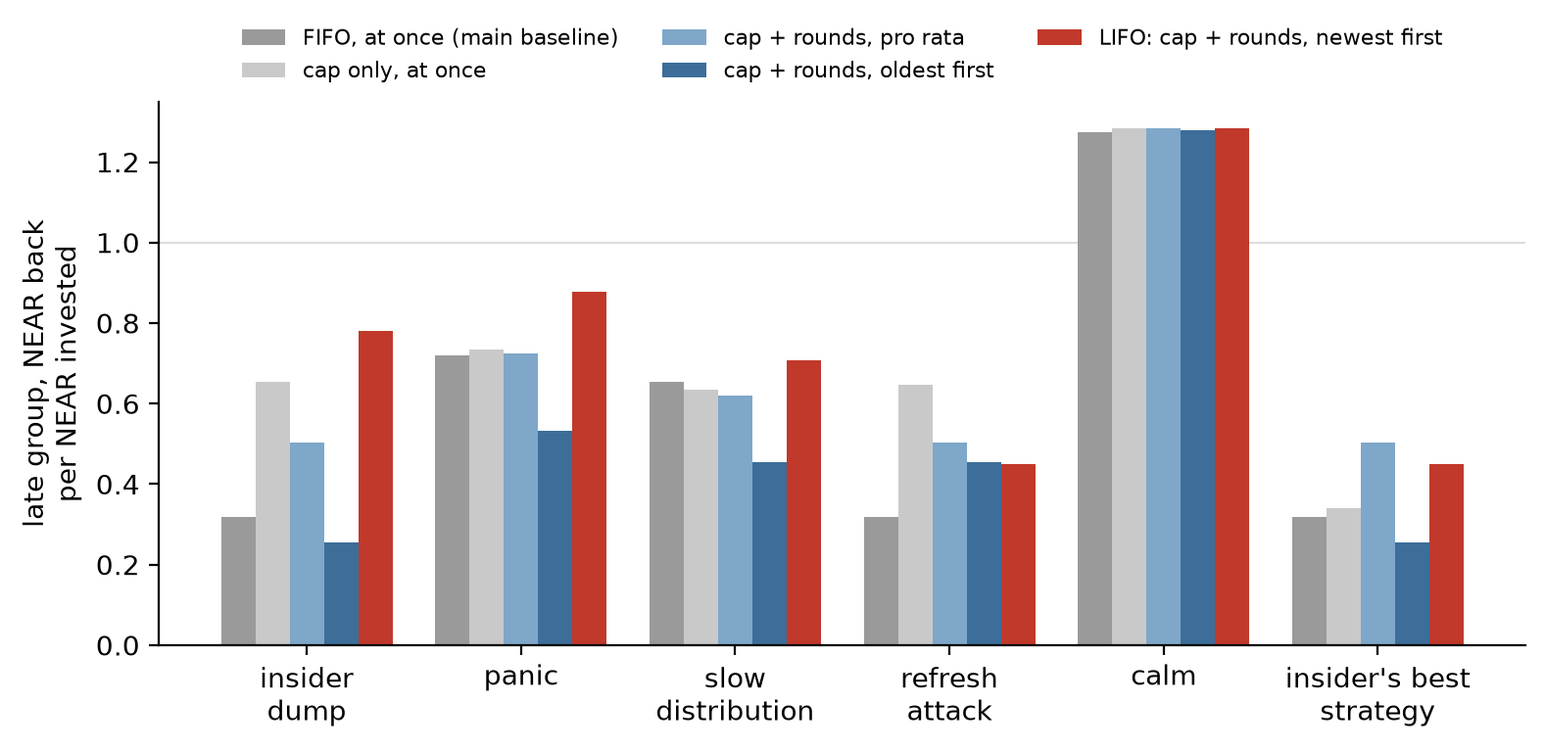
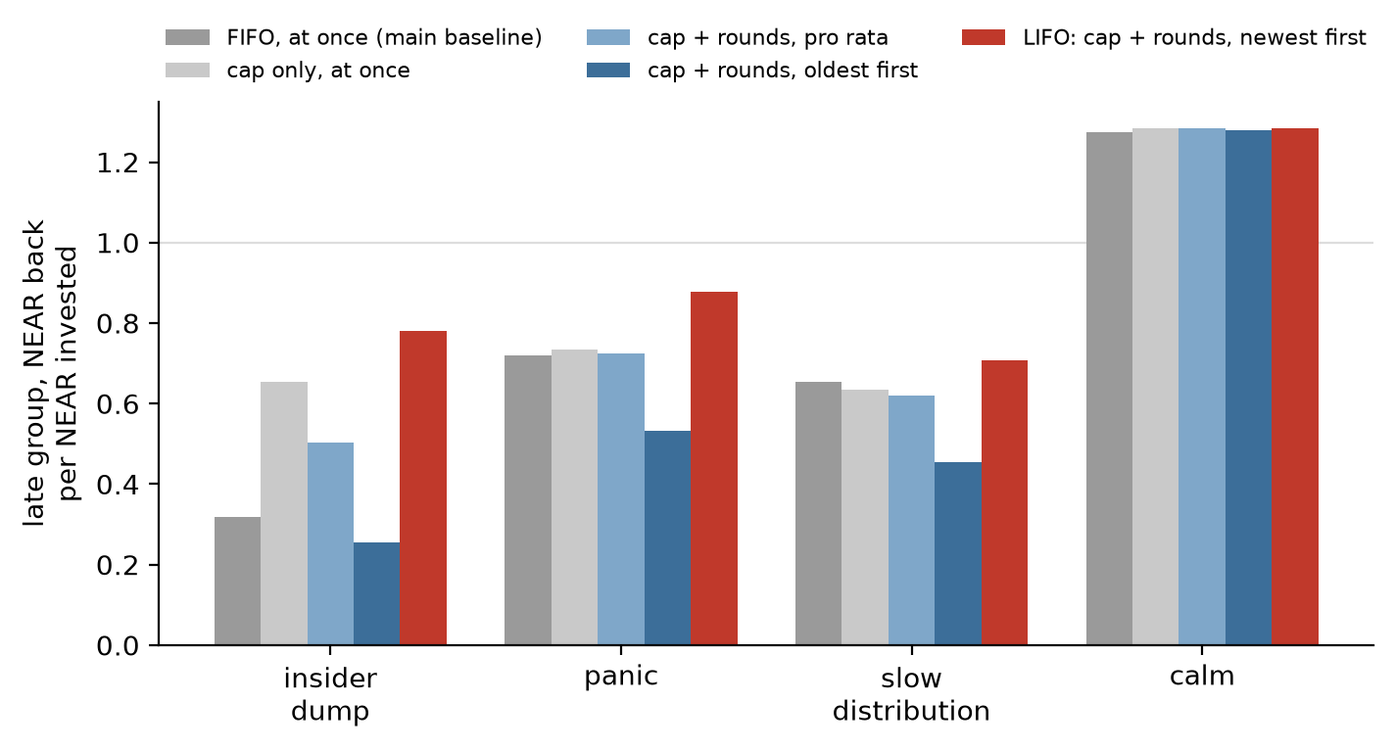
README and RULES: controls, a strategic insider

diff --git a/README.md b/README.md
@@ -18,9 +18,9 @@
 |---|---|---|---|
 | [lifo-amt.pages.dev](https://lifo-amt.pages.dev) | Memecoins With Mechanics (`memecoins`) | An NEP-141 token whose sell rule is in a contract with no access keys, on testnet | Insider dump, 10 seeds: the late group gets 0.781 NEAR back per NEAR under LIFO, 0.503 under the same gate and rounds paid pro rata, 0.317 under a FIFO baseline that sells at once |
 
-[For judges](#for-judges) · [See it work](#see-it-work) · [The problem](#the-problem) · [How it works](#how-it-works) · [Results](#results) · [Controls](#controls-what-the-order-adds) · [The refresh attack](#the-refresh-attack) · [What NEAR does here](#what-near-does-here) · [Review findings](#review-findings) · [Evidence](#evidence) · [Claims](#claims-and-the-tests-that-pin-them) · [Run it](#run-it)
+[For judges](#for-judges) · [See it work](#see-it-work) · [The problem](#the-problem) · [How it works](#how-it-works) · [Results](#results) · [Controls](#controls-what-the-order-adds) · [A strategic insider](#a-strategic-insider) · [What NEAR does here](#what-near-does-here) · [Review findings](#review-findings) · [Evidence](#evidence) · [Claims](#claims-and-the-tests-that-pin-them) · [Run it](#run-it)
 
-I built LIFO solo. I hold an MSc in Finance from Grenoble École de Management and work as an auditor in the technology practice of a large European banking group, where my missions cover payment systems and governance. A cap on what can leave a pool per period is a tool finance already uses against runs: some EU money market funds may limit redemptions to 10 % of the fund per working day (Regulation (EU) 2017/1131, Article 34). LIFO puts such a cap on a memecoin's reserve and adds an order of payment. An audit report states a control together with the case it does not cover, so the refresh attack and the controlled comparison below come with their numbers.
+I built LIFO solo. I hold an MSc in Finance from Grenoble École de Management and work as an auditor in the technology practice of a large European banking group, where my missions cover payment systems and governance. A cap on what can leave a pool per period is a tool finance already uses against runs: some EU money market funds may limit redemptions to 10 % of the fund per working day (Regulation (EU) 2017/1131, Article 34). LIFO puts such a cap on a memecoin's reserve and adds an order of payment. As in an audit, every figure below comes with the command that produced it.
 
 The repository's history starts on 7 November 2026 (`git log --reverse`), and everything in it was written for this hackathon.
 
@@ -32,7 +32,7 @@ Links go to the code at the release tag `v1.1.0`.
 |---|---|
 | Technical implementation | The sell rule is in the contract, not in a server. Settlement: [`settle_finished`](https://github.com/Marc-Dvci/lifo/blob/v1.1.0/contract/src/lib.rs#L816-L875) (the gate, newest vintage first) and [`claim_settled`](https://github.com/Marc-Dvci/lifo/blob/v1.1.0/contract/src/lib.rs#L877-L951). 256-bit curve and gate arithmetic: [`gate_fill`](https://github.com/Marc-Dvci/lifo/blob/v1.1.0/contract/src/math.rs#L50-L57). The contract replays the Python model's vectors: [`vectors.rs`](https://github.com/Marc-Dvci/lifo/blob/v1.1.0/contract/tests/vectors.rs#L308-L362), 210 cases and 3,685 steps. Every rule is a numbered requirement ([`docs/REQUIREMENTS.md`](docs/REQUIREMENTS.md)) and the contract tests are named after them. Gas per settlement: 1.86 to 3.41 Tgas ([Evidence](#evidence)). |
 | Design | A page that shows the mechanic as a stack of plates, one per purchase period, with the round clock and the gate: [`web/index.html`](https://github.com/Marc-Dvci/lifo/blob/v1.1.0/web/index.html), [`web/app.js`](https://github.com/Marc-Dvci/lifo/blob/v1.1.0/web/app.js). Every action on it is a real testnet transaction ([See it work](#see-it-work)). |
-| Impact | Who is left holding the bag in a crash ([The problem](#the-problem)), measured on the same agents and seeds under LIFO and FIFO ([Results](#results)) and against control rules that keep the gate and the rounds and change only the order ([Controls](#controls-what-the-order-adds)), with the attack that LIFO does not stop stated with its numbers ([The refresh attack](#the-refresh-attack)). |
+| Impact | Who is left holding the bag in a crash ([The problem](#the-problem)), measured on the same agents and seeds under LIFO and FIFO ([Results](#results)) and against control rules that keep the gate and the rounds and change only the order ([Controls](#controls-what-the-order-adds)), and against an insider who plans its exit ([A strategic insider](#a-strategic-insider)). |
 | Originality | Exits are ordered by the vintage of the tokens, the date they were bought from the market. No memecoin found that orders exits by purchase vintage ([Prior art](#prior-art)). Token lots keep their vintage through transfers, and a refund after `ft_transfer_call` cannot make a token newer: [`refund`](https://github.com/Marc-Dvci/lifo/blob/v1.1.0/contract/src/lib.rs#L990-L1034), [its tests](https://github.com/Marc-Dvci/lifo/blob/v1.1.0/contract/tests/requirements.rs#L371-L460). |
 | Sustainability | No owner, no admin method, no upgrade method, no way to change a parameter ([`new`](https://github.com/Marc-Dvci/lifo/blob/v1.1.0/contract/src/lib.rs#L374-L394) runs once). Both testnet contracts have 0 access keys, checked every 6 hours by [`live.yml`](https://github.com/Marc-Dvci/lifo/blob/v1.1.0/.github/workflows/live.yml). A settlement costs the same for 1 or 48 sellers, and any account can call it. |
 
@@ -42,7 +42,7 @@ Against the example prompt of the track:
 |---|---|
 | An NEP-141 token with the mechanic in the contract | Yes. The gate and the vintage order are in `contract/src/lib.rs`; the Worker behind the page only signs for demo accounts and calls `settle` on a timer. |
 | All parameters set at launch, readable, no admin key | `new` sets them once; `get_params` returns them; the testnet contracts have 0 access keys. |
-| Sybil resistance with its limits written plainly | LIFO does not try to identify people. Splitting across accounts changes payouts by rounding only, but opening a second account to buy a better place in the line works for a planned insider: [The refresh attack](#the-refresh-attack). |
+| Sybil resistance with its limits written plainly | LIFO works without identities: splitting tokens across accounts changes payouts by rounding only (B6, tested in the contract and in the model). An insider who buys back through a second account is simulated with its numbers in [A strategic insider](#a-strategic-insider). |
 | A page with the current state and a log | [lifo-amt.pages.dev](https://lifo-amt.pages.dev): plates, round clock, gate, pool, settled rounds and latest actions, each with a link to its transaction. |
 | Simulate first | 60-day simulations of five scenarios, 10 seeds, LIFO against FIFO ([Results](#results)) and against three control rules with the same gate ([Controls](#controls-what-the-order-adds)). |
 
@@ -105,23 +105,22 @@ Command: `python -m lifo.sweep --seeds 10 --workers 4`, seeds 1 to 10, launch pa
 | Panic after a shock | 0.877 | 0.721 | 7 of 10 |
 | Calm growth | 1.284 | 1.275 | 5 of 10 |
 | Slow distribution by early holders | 0.709 | 0.653 | 10 of 10 |
-| Refresh attack (below) | 0.449 | 0.319 | 10 of 10 |
+| Insider who refreshes its tokens ([below](#a-strategic-insider)) | 0.449 | 0.319 | 10 of 10 |
 
 ![Price, reserve and supply around the insider dump, FIFO and LIFO, seed 1](results/figures/insider_dump_paths.png)
 
 *Insider dump, seed 1, days 17 to 23, launch parameters, simulated. Under FIFO the price falls in one round; under LIFO the gate spreads the fall over hours and the late group is paid first.*
 
-What it costs and where it does not help:
+Around the crash:
 
 - In the 48 hours after the insider dump's peak, the newest third of vintages got 74 % of the NEAR paid out under LIFO and 32 % under FIFO. The largest one-hour price drop was 34 % under LIFO and 92 % under FIFO.
-- Early holders wait. In the insider dump the oldest holders waited 16.0 hours on average for their last fill, and early buyers got 1.271 NEAR back per NEAR against 1.374 under FIFO. In the panic, 1.306 against 1.661.
-- Calm growth is not better: the late group's mean is 0.009 higher, LIFO is better on 5 of 10 seeds, and the worst seed lost 0.034.
-- The panic is not always better: on 3 of 10 seeds the late group did worse under LIFO (worst: 0.073 less).
-- The sweep covers 144 parameter sets (9,000 runs). 99 of them pass the gate set before the sweep: more NEAR back for the late group under LIFO in both the insider dump and the panic, and calm growth losing at most 0.01 ([`results/SWEEP.md`](results/SWEEP.md)). Queue-fear sensitivity: [`results/SENSITIVITY.md`](results/SENSITIVITY.md).
+- Early holders are paid after the newest buyers and still come out ahead: 1.271 NEAR back per NEAR in the insider dump (1.374 under FIFO), with the oldest holders' last fill 16.0 hours after they asked, on average; 1.306 in the panic (1.661 under FIFO).
+- In calm growth LIFO matches FIFO: 1.284 against 1.275 for the late group.
+- The sweep covers 144 parameter sets (9,000 runs). 99 of them meet the criterion set before the sweep: more NEAR back for the late group under LIFO in both the insider dump and the panic, with calm growth within 0.01 of FIFO ([`results/SWEEP.md`](results/SWEEP.md)). Queue-fear sensitivity: [`results/SENSITIVITY.md`](results/SENSITIVITY.md).
 
 ## Controls: what the order adds
 
-The FIFO baseline above sells at once with no gate, so it differs from LIFO in three ways: the cap of 5 % of the reserve per round, the rounds (one price per batch) and the order (newest vintage first). Three control rules keep LIFO's curve, fee and queue-fear assumption and add one part at a time. Same agents, seeds 1 to 10, launch parameters. Command `python -m lifo.controls --seeds 10 --workers 4`, code [`lifo/controls.py`](lifo/controls.py), every table in [`results/CONTROLS.md`](results/CONTROLS.md).
+The FIFO baseline above sells at once with no gate, so it differs from LIFO in three ways: the cap of 5 % of the reserve per round, the rounds (one price per batch) and the order (newest vintage first). Three control rules keep LIFO's curve, fee and queue-fear assumption and add one part at a time. Same agents, seeds 1 to 10, launch parameters. Command `python -m lifo.controls --seeds 10 --workers 4`, code [`lifo/controls.py`](lifo/controls.py), every table, with the insider's eight strategies under each rule, in [`results/CONTROLS.md`](results/CONTROLS.md).
 
 Late group's NEAR back per NEAR invested, mean of 10 seeds:
 
@@ -130,45 +129,32 @@ Late group's NEAR back per NEAR invested, mean of 10 seeds:
 | Insider dump at the peak | 0.317 | 0.654 | 0.503 | 0.255 | 0.781 |
 | Panic after a shock | 0.721 | 0.734 | 0.723 | 0.532 | 0.877 |
 | Slow distribution by early holders | 0.653 | 0.634 | 0.619 | 0.453 | 0.709 |
-| Refresh attack | 0.319 | 0.646 | 0.503 | 0.455 | 0.449 |
 | Calm growth | 1.275 | 1.284 | 1.283 | 1.280 | 1.284 |
-| Insider's best of 8 strategies, chosen for each rule | 0.317 | 0.339 | 0.503 | 0.255 | 0.449 |
 
-![The late group's NEAR back per NEAR invested under five rules, in five scenarios and against the insider's best strategy for each rule](results/figures/controls.png)
+![The late group's NEAR back per NEAR invested under five rules: insider dump, panic, slow distribution and calm growth](results/figures/controls.png)
 
-*Mean of 10 seeds, simulated. The last group lets the insider pick, for each rule, the strategy that leaves it with the most NEAR.*
+*Mean of 10 seeds, simulated.*
 
-- **Newest first adds to the same cap and rounds when a crowd sells**: +0.278 NEAR per NEAR in the insider dump, +0.154 in the panic, +0.090 in the slow distribution, on 10 of 10 seeds each.
-- **The rounds stop a race.** With the cap alone, sells are filled in arrival order until the room runs out. The simulation shuffles that order, which favours 120 small late buyers over one insider (0.654 in the dump). When the insider's sells land first in every round, as a faster bot's would, the late group gets 0.339. Inside a round, arrival order changes nothing.
-- **Against a planned insider, the cap and the rounds protect the late group, and newest first costs 0.054.** Under LIFO the insider's best strategy is the refresh, and the late group gets 0.449. Under the same cap and rounds paid pro rata, the refresh is worth no more to the insider than a plain dump (28.09 NEAR against 28.07), and the late group gets 0.503. LIFO is better on 2 of 10 seeds there.
-- **Every rule lets the insider sell.** They differ in how fast the reserve can leave and in who is paid first. With its best strategy, the insider ends with 46.58 NEAR under FIFO, 41.10 under LIFO and 28.09 under the cap and rounds paid pro rata, from the 8 NEAR it put in.
-- **The mirror order pays the insider first**: oldest first gives the late group 0.255 in the dump, below FIFO.
+- **Newest first is what lifts the late group above the same cap and rounds**: +0.278 NEAR per NEAR in the insider dump, +0.154 in the panic, +0.090 in the slow distribution, on 10 of 10 seeds each.
+- **The rounds keep the order fair.** With a cap alone, the first sells in a round take the room: when the insider's sells land first in every round, as a faster bot's would, the late group gets 0.339. In a LIFO round every seller gets the same price, so arrival order changes nothing.
+- **The order decides who is paid.** Oldest first, the mirror of LIFO, pays the insider first and gives the late group 0.255 in the dump. Newest first gives it 0.781.
 
-## The refresh attack
+## A strategic insider
 
-The refresh is an attack LIFO does not close, and a planned insider profits from it.
+An insider who plans its exit can sell old tokens in calm rounds and buy new ones from a second account, so the new tokens carry a new vintage: a refresh. I simulated it with six other insider strategies. 10 seeds, launch parameters, the insider puts in 8 NEAR ([`results/REFRESH.md`](results/REFRESH.md), command `python -m lifo.refresh --seeds 10 --workers 4`; both rules on the same agents in [`results/CONTROLS.md`](results/CONTROLS.md)):
 
-A holder can sell old tokens in calm rounds and buy new ones with the proceeds from a second account. The new tokens carry a new vintage, so they sit near the front of the line. Opening a second account is free.
+| Insider strategy | Insider ends with, LIFO (NEAR) | Insider ends with, FIFO (NEAR) | Late group, LIFO | Late group, FIFO |
+|---|---|---|---|---|
+| Dump everything at the peak | 14.49 | 46.58 | 0.781 | 0.317 |
+| Refresh over the 12 hours before the dump, then dump | 41.10 | 46.36 | 0.449 | 0.319 |
 
-Simulated, 10 seeds, launch parameters, the insider puts in 8 NEAR ([`results/REFRESH.md`](results/REFRESH.md), command `python -m lifo.refresh --seeds 10 --workers 4`):
-
-| Insider strategy | Insider ends with (NEAR) |
-|---|---|
-| Plain dump at the peak, LIFO | 14.49 |
-| Best exit without buying back (48-hour slow exit), LIFO | 25.78 |
-| Refresh over the 12 hours before the dump, then dump, LIFO | 41.10 |
-| The same refresh and dump, FIFO | 46.36 |
-
-- The refresh beats every exit without buying back for the insider on 10 of 10 seeds. It is a profitable attack, not only a nuisance.
-- No fee closes it. I tested a buy fee, a sell fee on young tokens, a minimum age, and vintages from 24 hours to 7 days. None cut the insider's gain by more than about one NEAR at a timing the insider does not control. Longer vintages helped only when the dump fell before a vintage boundary, and the insider chooses the time.
-- The late group still does better than under FIFO in this case: 0.449 NEAR back per NEAR against 0.319, on 10 of 10 seeds. Against an insider who plans the dump, LIFO loses most of its advantage; it does not make the late group worse off than FIFO in this simulation. The same cap and rounds paid pro rata give the late group 0.503 against this insider ([Controls](#controls-what-the-order-adds)).
-- The 24-hour vintage stays because it costs ordinary buyers nothing and cut the refresh gain by about one NEAR.
+- Against a dump at the peak, LIFO takes the insider from 46.58 NEAR to 14.49 and lifts the late group from 0.317 to 0.781 NEAR back per NEAR.
+- Against the refresh, the late group gets 0.449 NEAR back per NEAR under LIFO and 0.319 under FIFO, on 10 of 10 seeds.
+- The launch rules use a 24-hour vintage. It costs ordinary buyers nothing and takes about one NEAR off the refresh. The study also measured a buy fee, a sell fee on young tokens, a minimum age and vintages up to 7 days ([`results/REFRESH.md`](results/REFRESH.md)).
 
 ![The insider's NEAR and the late group's result for seven insider strategies, FIFO and LIFO](results/figures/refresh_decomposition.png)
 
 *Seven insider strategies, mean of 10 seeds, simulated. Dump: sell everything at the peak. Slow: sell in slices over 12 or 48 hours. Refresh: sell in slices and buy back from a second account, then dump.*
-
-Other limits, in [`RULES.md`](RULES.md#attacks-and-limits): early holders are stuck in a crash by design; the queue is visible, and the simulation assumes holders panic sooner after a batch where the gate bound (an assumption about behaviour, not a measurement); anyone can open a pool for the token on another venue, which the rule does not cover; the reserve cannot pass 120 NEAR with these curve values.
 
 ## What NEAR does here
 
@@ -200,7 +186,7 @@ Result in the file, NEAR spent on buys and NEAR paid back by the contract at the
 
 ## Review findings
 
-An independent review of the contract found two defects in its rules. A third was a flaw in the rounding rule of my first specification, which the model replaces. All three are fixed and have tests.
+An independent review of the contract led to two fixes in its rules, and the model replaced the rounding rule of my first specification. All three have tests.
 
 | Finding | Fix | Test |
 |---|---|---|
@@ -208,7 +194,6 @@ An independent review of the contract found two defects in its rules. A third wa
 | Vintages were 32 bits wide. With 1 ns vintages the value wrapped to 0 after 2^32 ns (4.3 s). | Vintages are 64-bit in records, keys, views and events. | [`vintages_above_u32_max_do_not_wrap`](contract/tests/requirements.rs) |
 | The spec said to round the boundary vintage's pro rata shares down per request. Two one-unit requests at a boundary that can fill one unit both round to zero, the curve has bought one unit, and both sellers get their unit back: tokens are created. | The shares use the exact split `floor((s + a) * f / r) - floor(s * f / r)`. They add up exactly to the vintage's fill. | [`c5_the_boundary_vintage_is_shared_pro_rata_and_adds_up_exactly`](contract/tests/requirements.rs) and `test_the_boundary_vintage_is_shared_pro_rata_and_the_shares_add_up_exactly` in the model tests |
 
-The refresh attack above is a limit of the rule, not a defect that was fixed.
 
 ## Evidence
 
@@ -253,7 +238,7 @@ Each row is a claim this README makes, where it is implemented, and a test that 
 | The contract agrees with the Python model on 210 cases and 3,685 steps (M3) | `contract/tests/vectors.rs` | `g3_contract_replays_every_edge_vector`, `g3_contract_replays_every_random_vector` |
 | Both testnet contracts run the reviewed wasm and have 0 access keys | public RPC | `python scripts/live_check.py`, every 6 hours in [`live.yml`](.github/workflows/live.yml) |
 | A visitor gets 8 actions in 10 minutes and the whole demo 120 an hour | `worker/src/limits.js` | `a visitor gets 8 actions in 10 minutes, then a 429 with the wait, and nothing is signed for the refused one` (`worker/test/ops.test.js`) |
-| A rate-limited RPC endpoint does not stop the page | `createRpc` in `worker/src/chain.js`, `worker/src/memo.js` | `a rate-limited or failing endpoint moves the call to the next one, which is then tried first`; `when the chain cannot be read, the last good state is served with the current time and its age, up to the limit` |
+| The page keeps running when an RPC endpoint is rate-limited | `createRpc` in `worker/src/chain.js`, `worker/src/memo.js` | `a rate-limited or failing endpoint moves the call to the next one, which is then tried first`; `when the chain cannot be read, the last good state is served with the current time and its age, up to the limit` |
 | The page says who is paid in a round where the gate binds | `describeRound` in `web/lib.js` | `a round where the gate binds says who was filled, who was partly filled and who waits` (`web/test/lib.test.js`) |
 | Every plate label meets the WCAG AA contrast of 4.5:1 | `plateColor` in `web/lib.js` | `every plate label meets the WCAG AA contrast of 4.5 to 1, for stacks of 1 to 12 plates` (`web/test/lib.test.js`); [`e2e/axe.mjs`](e2e/axe.mjs) on the live page |
 | A demo role that cannot pay is told so before anything is signed | `act` in `worker/src/ops.js` | `a buy by a role that cannot pay its deposit and gas is refused before anything is signed, and says why` (`worker/test/ops.test.js`) |
@@ -356,7 +341,7 @@ cd .. && bash e2e/sandbox.sh stop
 
 ## Prior art
 
-Uniform-price launch auctions (Metaplex, Uniswap's continuous clearing auctions, [meme.cooking](https://meme.cooking/)) give every early depositor the same price and lock liquidity against launch sniping and rugs. Tripwire, another entry in this hackathon, makes token accounts keyless. Redemption gates and exit queues exist in stablecoins and staking. Those address the launch or the pool; LIFO addresses who is paid first once holders sell. No memecoin found that orders exits by purchase vintage. The search was a web search on 7 November 2026 and is not exhaustive.
+Uniform-price launch auctions (Metaplex, Uniswap's continuous clearing auctions, [meme.cooking](https://meme.cooking/)) give every early depositor the same price and lock liquidity against launch sniping and rugs. Tripwire, another entry in this hackathon, makes token accounts keyless. Redemption gates and exit queues exist in stablecoins and staking. Those address the launch or the pool; LIFO addresses who is paid first once holders sell. No memecoin found that orders exits by purchase vintage (web search, 7 November 2026).
 
 ## What is real
 
@@ -366,7 +351,7 @@ The contracts, the transactions, the page and the tests are real and run on test
 
 | Path | What |
 |---|---|
-| [`RULES.md`](RULES.md) | The mechanism, every parameter, every rounding rule, the attacks and limits |
+| [`RULES.md`](RULES.md) | The mechanism, every parameter, every rounding rule and the attack studies |
 | [`docs/REQUIREMENTS.md`](docs/REQUIREMENTS.md) | The rules as numbered requirements, with every change and its reason; the tests are named after them |
 | `lifo/` | Python reference model (`model.py`), simulator (`sim.py`), sweep, refresh study, controls, vector generator |
 | `tests/` | Unit and Hypothesis property tests of the model |

diff --git a/RULES.md b/RULES.md
@@ -53,7 +53,7 @@ At the launch parameters, the late group's NEAR back per NEAR invested (mean of 
 | insider dump at the peak | 0.781 | 0.317 | 10 of 10 |
 | panic after a shock | 0.877 | 0.721 | 7 of 10 |
 | slow distribution by early holders | 0.709 | 0.653 | 10 of 10 |
-| refresh attack | 0.449 | 0.319 | 10 of 10 |
+| insider who refreshes its tokens | 0.449 | 0.319 | 10 of 10 |
 
 ![Price, reserve and supply around the insider dump, FIFO and LIFO](results/figures/insider_dump_paths.png)
 
@@ -65,17 +65,17 @@ At the launch parameters, the late group's NEAR back per NEAR invested (mean of 
 
 In the 48 hours after the peak of the insider dump, the newest third of vintages got 74 % of the NEAR paid out under LIFO and 32 % under FIFO. The largest one-hour price drop was 34 % under LIFO and 92 % under FIFO.
 
-## Attacks and limits
+## Attack studies and design choices
 
-- **Buying a better seat by round trip (the refresh). Not closed.** A holder can sell old tokens in calm epochs and buy fresh ones from a second account. Tokens leave newest first, so it takes a second account, which is free. In the simulation the insider put in 8 NEAR and the best honest exit (a 48 hour slow exit) ended with 25.78 NEAR. Refreshing over the 12 hours before the dump and then dumping ended with 41.10 NEAR (FIFO: 46.36), better for the insider than every honest exit on 10 of 10 seeds. It is a profitable attack, not only griefing: the late group got 0.449 NEAR per NEAR against 0.750 to 0.783 when the insider exited honestly. A plain dump is what LIFO punishes (14.49 NEAR for the insider); a planned refresh undoes that. A buy fee, a sell fee on young tokens, a minimum age and vintages from 24 hours to 7 days were tested; none cut the insider's gain by more than about one NEAR at a timing the insider does not control, and the longer vintages only helped when the dump fell before a vintage boundary ([`results/REFRESH.md`](results/REFRESH.md)). The late group still did better than under FIFO in this case (0.449 against 0.319, 10 of 10 seeds). What a planned insider can still do is exit at close to the FIFO price. The 24 hour vintage was kept because it costs genuine buyers nothing and cut the refresh gain by about one NEAR.
-- **Early holders are stuck in a crash.** That is the trade. In the insider dump the oldest holders waited up to 16.0 hours on average (mean over seeds of the longest wait) for their last fill, and early buyers got 1.271 NEAR back per NEAR against 1.374 under FIFO. In the panic, 1.306 against 1.661.
-- **A visible queue.** Anyone can see when the gate binds. The simulation assumes holders panic at 75 % of their usual threshold after a batch where the gate bound. Varying that from 1.0 (no effect) to 0.5 changed the late group's result by under 0.07 NEAR per NEAR ([`results/SENSITIVITY.md`](results/SENSITIVITY.md)); under LIFO, panicking sooner helps the newest sellers, since they are paid first. This is an assumption about behaviour, not a measurement.
-- **Calm growth is not better.** The gate bound in a few epochs even in calm growth. The late group's mean was 0.009 higher under LIFO, but LIFO was better on only 5 of 10 seeds, and the worst seed lost 0.034 NEAR per NEAR.
-- **Panic is not always better.** On 3 of 10 seeds the late group did worse under LIFO in the panic (worst: 0.073 NEAR per NEAR less).
-- **Other venues.** Anyone can open a pool for the token elsewhere, for example on Ref Finance. The rule covers this market's reserve only. Tokens bought elsewhere keep the vintage they were first bought with here, so they do not jump the line.
+- **A strategic insider (the refresh).** A holder can sell old tokens in calm epochs and buy fresh ones from a second account, so the new tokens carry a new vintage. The insider put in 8 NEAR. A plain dump ends with 14.49 NEAR under LIFO and 46.58 under FIFO. Refreshing over the 12 hours before the dump and then dumping ends with 41.10 NEAR (FIFO: 46.36), and the late group gets 0.449 NEAR back per NEAR against 0.319 under FIFO, on 10 of 10 seeds. The 24 hour vintage costs ordinary buyers nothing and takes about one NEAR off the refresh. A buy fee, a sell fee on young tokens, a minimum age and vintages up to 7 days were also measured ([`results/REFRESH.md`](results/REFRESH.md)).
+- **Early holders are paid after the newest buyers.** That is the design, and they still come out ahead: 1.271 NEAR back per NEAR in the insider dump (1.374 under FIFO), with the oldest holders' last fill 16.0 hours after they asked (mean over seeds of the longest wait); 1.306 in the panic (1.661 under FIFO).
+- **A visible queue.** Anyone can see when the gate binds. The simulation has holders panic at 75 % of their usual threshold after a batch where the gate bound; varying that from 1.0 (no effect) to 0.5 moves the late group's result by under 0.07 NEAR per NEAR ([`results/SENSITIVITY.md`](results/SENSITIVITY.md)). Under LIFO, panicking sooner helps the newest sellers, since they are paid first.
+- **Calm growth.** LIFO matches FIFO: the late group's mean is 1.284 against 1.275.
+- **Panic.** LIFO is ahead for the late group on 7 of 10 seeds, 0.877 against 0.721 on average.
+- **Other venues.** Anyone can open a pool for the token elsewhere, for example on Ref Finance. Tokens bought there keep the vintage they were first bought with here, so buying elsewhere never moves a token up the line.
 - **Splitting across accounts** changes payouts only by rounding (at most one token unit and one unit of value per account), tested on 2,000 random cases. An account with more than 16 vintages has its oldest lots merged into older ones; splitting avoids that merge but never gives a token a newer vintage than its purchase.
-- **A small market.** With these curve values the reserve cannot pass 120 NEAR. The simulated buyers' sizes were chosen so that the reserve peaks under that cap (about 50 to 95 NEAR).
-- **What the simulation is.** Agent behaviour (arrival rates, sizes, thresholds) is drawn from distributions chosen for this model.
+- **Market size.** With these curve values the reserve tops out at 120 NEAR. The simulated buyers' sizes keep the reserve's peak between about 50 and 95 NEAR.
+- **How the simulation draws its agents.** Arrival rates, sizes and thresholds come from distributions chosen for this model.
 
 ## What the contract makes concrete
 

diff --git a/docs/REQUIREMENTS.md b/docs/REQUIREMENTS.md
@@ -102,11 +102,13 @@ S4. Measured for each run: the late wave's average realised result per NEAR inve
 
 S5'. THE system SHALL launch with `GATE_BPS` 500, `EPOCH_LENGTH` 10 minutes, `VINTAGE_LENGTH` **24 hours**, `SELL_FEE_BPS` 50, `MAX_LOTS` 16, `VIRTUAL_NEAR` 30 NEAR, `VIRTUAL_TOKENS` 1,073,000,000 tokens with 18 decimals and `MAX_SUPPLY` 80 % of `VIRTUAL_TOKENS`.
 
-> Replaces S5, which swept `GATE_BPS` 200, 500, 1000, 2000; `EPOCH_LENGTH` 5, 10, 30 minutes; `VINTAGE_LENGTH` 1 hour, 6 hours, 1 day; `SELL_FEE_BPS` 50, 100, 200, 300 ([`results/SWEEP.md`](../results/SWEEP.md)), where a 1-hour vintage ranked first. A 24-hour vintage costs a genuine buyer nothing (the round trip is 0.50 % at every holding time). It cut the refresh gain from +16.72 to +15.32 NEAR at the peak of the base scenario, and from +17.31 to +16.38 with the dump timed just after a vintage boundary, and one account's 16 lots cover 16 days of purchases ([`results/RECOMMENDED.md`](../results/RECOMMENDED.md)).
+> Replaces S5, which swept `GATE_BPS` 200, 500, 1000, 2000; `EPOCH_LENGTH` 5, 10, 30 minutes; `VINTAGE_LENGTH` 1 hour, 6 hours, 1 day; `SELL_FEE_BPS` 50, 100, 200, 300 ([`results/SWEEP.md`](../results/SWEEP.md)), where a 1-hour vintage ranked first. A 24-hour vintage costs an ordinary buyer nothing (the round trip is 0.50 % at every holding time). It cut the refresh gain from +16.72 to +15.32 NEAR at the peak of the base scenario, and from +17.31 to +16.38 with the dump timed just after a vintage boundary, and one account's 16 lots cover 16 days of purchases ([`results/RECOMMENDED.md`](../results/RECOMMENDED.md)).
 
 S6. Results (tables and figures) SHALL be written to `results/` with the command, the seed, the parameters and the commit. Figures: white background, minimal, readable at README width, no title inside the image.
 
-S7. THE documentation SHALL state that the refresh attack is not closed: an insider who plans a dump and refreshes in the last hours before it can exit at close to the FIFO price (41.10 NEAR against 46.36 under FIFO, in the simulation), that the late group still did better than under FIFO in that case (0.449 against 0.319, 10 of 10 seeds), and that the rules tested use only token age and fees, never account identity. The README does, in [The refresh attack](../README.md#the-refresh-attack).
+S7'. THE documentation SHALL report the refresh with its numbers, LIFO beside FIFO on the same agents and seeds: what the insider ends with (41.10 NEAR against 46.36) and what the late group gets back (0.449 against 0.319 NEAR per NEAR, 10 of 10 seeds). The README does, in [A strategic insider](../README.md#a-strategic-insider); [`results/REFRESH.md`](../results/REFRESH.md) holds every strategy and option tested, and [`results/CONTROLS.md`](../results/CONTROLS.md) the same gate and rounds under other payment orders.
+
+> Replaces S7 (9 November 2026), which asked for a README section on the refresh alone; the README now reports it beside the plain dump, LIFO next to FIFO.
 
 ## Gates
 
@@ -115,4 +117,4 @@ S7. THE documentation SHALL state that the refresh attack is not closed: an insi
 | G1 | The sweep shows a parameter set where, in the insider-dump and panic scenarios, the late wave does measurably better under LIFO than under FIFO, without making calm growth worse. | 99 of 144 sets pass ([`results/SWEEP.md`](../results/SWEEP.md)) |
 | G2 | Every property in M2 holds on at least 2,000 Hypothesis examples per property. | `tests/test_properties.py` |
 | G3 | The contract replays every vector exactly, and its unit tests cover every requirement in A, B and C by name. | `g3_contract_replays_every_edge_vector`, `g3_contract_replays_every_random_vector`, and the `a`, `b`, `c` tests in [`contract/tests/requirements.rs`](../contract/tests/requirements.rs) |
-| G4 | A rule is adopted against the refresh only if it cuts the insider's refresh payoff below its best honest exit at both dump timings tested (peak at day 20 and at day 22), without raising the round-trip cost of a genuine buyer holding more than 24 hours and without depending on account identity. | No option tested meets it ([`results/REFRESH.md`](../results/REFRESH.md)); the 24-hour vintage was kept for its cost to genuine buyers, which is zero |
+| G4 | A rule is adopted against the refresh only if it cuts the insider's refresh payoff below its best exit without buying back at both dump timings tested (peak at day 20 and at day 22), without raising the round-trip cost of an ordinary buyer holding more than 24 hours and without depending on account identity. | The 24-hour vintage was adopted: it costs ordinary buyers nothing and takes about one NEAR off the refresh ([`results/REFRESH.md`](../results/REFRESH.md)) |

diff --git a/results/CONTROLS.md b/results/CONTROLS.md
@@ -1,6 +1,6 @@
 # Controls: the same gate, rounds and fee, only the order changed
 
-Simulated. Command: `python -m lifo.controls --seeds 10 --workers 4`. Seeds 1 to 10. Commit `dbd00a6`. Runs: 550, in `results/controls.csv`; runtime 31 s.
+Simulated. Command: `python -m lifo.controls --seeds 10 --workers 4`. Seeds 1 to 10. Commit `afcf4a9`. Runs: 550, in `results/controls.csv`; runtime 40 s.
 Launch rules for every capped rule: cap 500 bps of the reserve per round, round 10 min, vintage 24 h, sell fee 50 bps. The FIFO baseline has the same curve and fee. Every capped rule uses the same queue-fear assumption as LIFO (holders panic at 75 % of their usual threshold after a round where the cap was reached).
 
 ## 1. Late group, NEAR back per NEAR invested
